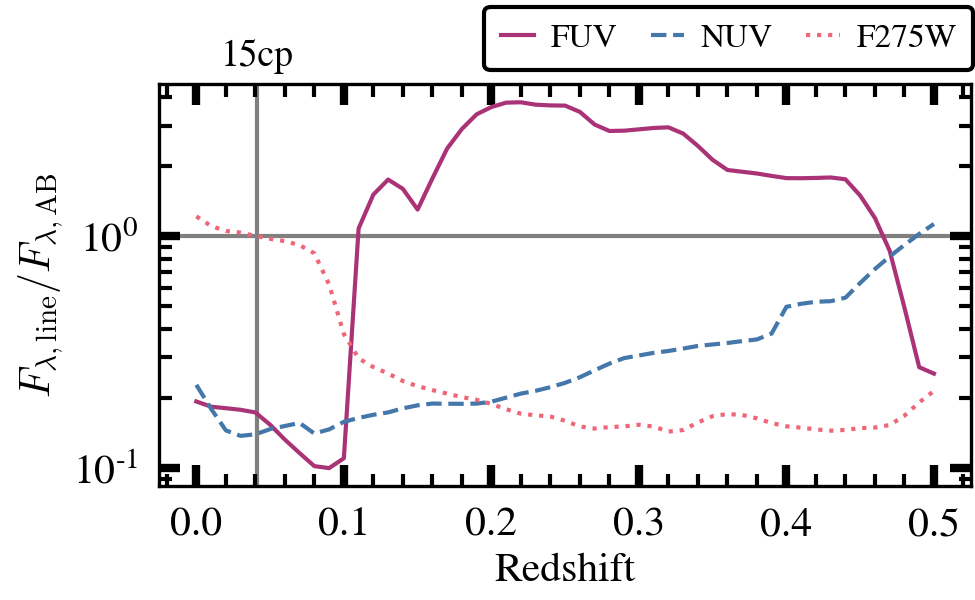
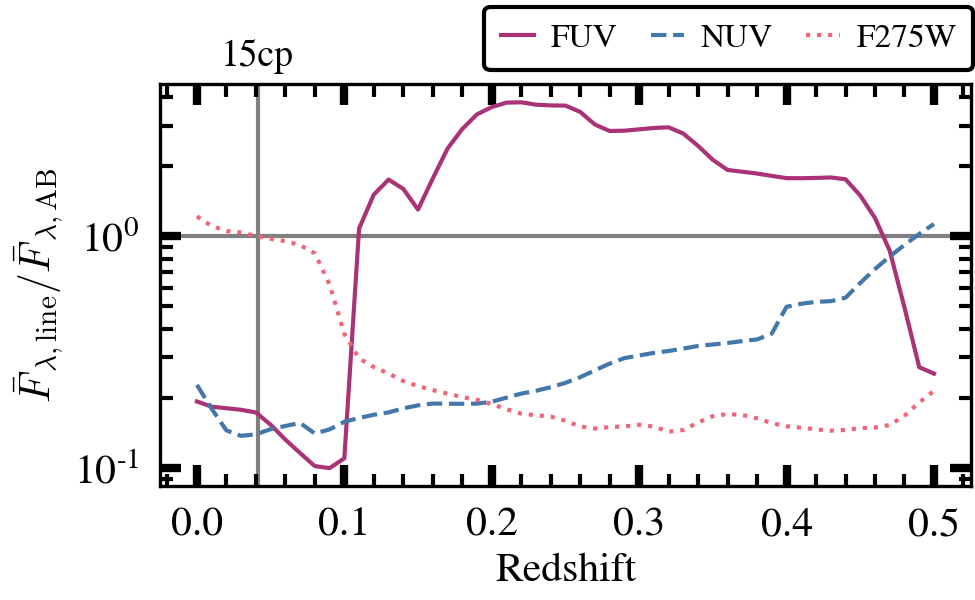
applied line sed calibration to injection-recovery

diff --git a/calibrate_sed.py b/calibrate_sed.py
@@ -45,8 +45,9 @@ zero_point_nu = 3.63e-20 * f_nu_units
 colors = {'FUV' : '#a37', 'NUV' : '#47a', 'F275W': '#e67'}
 styles = {'FUV': '-', 'NUV': '--', 'F275W': ':'}
 
-# initialize CSM line emisison model
+# initialize CSM emisison models
 line_model = CSMmodel(0, 250, 0.3, scale=1, model='Chev94')
+flat_model = CSMmodel(0, 250, 0.3, scale=1, model='flat')
 
 def main(dz=0.001, plot=True, plot_dz=0.01):
     """
@@ -98,6 +99,8 @@ def main(dz=0.001, plot=True, plot_dz=0.01):
         ax.axvline(SN2015cp['z'], 0, 1, c='gray', zorder=0, linewidth=1)
         ax.set_xticks(list(ax.get_xticks()[1:-1]) + [SN2015cp['z']])
         ax.set_xticklabels(list(np.round(ax.get_xticks()[:-1], 1)) + ['15cp'])
+        plt.tight_layout(pad=0.1)
+        plt.subplots_adjust(top=0.86)
         fig.legend(loc='upper center', ncol=3, bbox_to_anchor=(0.5, 1.))
         # Custom second legend
         solid_line = mlines.Line2D([], [], color='k', linestyle='-')
@@ -105,8 +108,10 @@ def main(dz=0.001, plot=True, plot_dz=0.01):
         fig.legend([solid_line, dashed_line], 
                    ['Line-emission model', 'Scaled AB zero point'],
                    loc='upper center', ncol=2, bbox_to_anchor=(0.5, 0.95),
-                   handlelength=1.)
+                   handletextpad=0.5, handlelength=1., borderpad=0.5, 
+                   fontsize=8, borderaxespad=0.05)
         plt.savefig(Path('out/sed_flux_comparison.png'), dpi=300)
+        plt.savefig(Path('out/sed_flux_comparison.pdf'), dpi=300)
         plt.show()
     
         # Plot calibration of each band
@@ -116,7 +121,7 @@ def main(dz=0.001, plot=True, plot_dz=0.01):
             ax.plot(zarr, gen_calibration(zarr, band), 
                     label=band, color=colors[band], linestyle=styles[band])
         ax.set_xlabel('Redshift')
-        ax.set_ylabel('$F_{\lambda,\\rm{line}}/F_{\lambda,\\rm{AB}}$')
+        ax.set_ylabel('$\\bar F_{\lambda,\\rm{line}}/\\bar F_{\lambda,\\rm{AB}}$')
         ax.set_yscale('log')
         # Add horizontal marker at unity
         ax.axhline(1, 0, 1, c='gray', zorder=0, linewidth=1)
@@ -126,8 +131,8 @@ def main(dz=0.001, plot=True, plot_dz=0.01):
         plt.tight_layout(pad=0.1)
         plt.subplots_adjust(top=0.86)
         fig.legend(loc='lower right', ncol=3, bbox_to_anchor=(1., 0.88),
-                   handletextpad=0.5, handlelength=1., borderpad=0.5, fontsize=8,
-                   borderaxespad=0.05)
+                   handletextpad=0.5, handlelength=1., borderpad=0.5, 
+                   fontsize=8, borderaxespad=0.05)
         plt.savefig(Path('out/sed_calibration.png'), dpi=300)
         plt.savefig(Path('out/sed_calibration.pdf'), dpi=300)
         plt.show()
@@ -151,6 +156,9 @@ def gen_calibration(z, band):
         Scaled flux ratio.
 
     """
+    # Convert HST luminosity of SN 2015cp to flux
+    SN2015cp['f_lambda'] = luminosity2flux(SN2015cp['L_lambda'], SN2015cp['z'], 
+                                           SN2015cp['dist'])
     # ratio of AB zero point mean flux density at z_15cp to flux of 15cp
     fratio_15cp = zero_point_mfd(SN2015cp['z'], 'F275W') / SN2015cp['f_lambda']
     calibration = line_emission_flux(z, dist=SN2015cp['dist'], band=band)

diff --git a/light_curve.py b/light_curve.py
@@ -12,6 +12,7 @@ from astropy.constants import c
 
 from supernova import Supernova
 from utils import *
+from calibrate_sed import gen_calibration
 
 # Default file and directory paths
 DATA_DIR = Path('/mnt/d/GALEXdata_v10')     # Path to data directory
@@ -179,8 +180,14 @@ def plot(sn, tmax=4000, pad=0, swift=False, cfa=False, legend_col=3, show=True,
 
 
 class LightCurve:
-    def __init__(self, sn, band, data_dir=LC_DIR, **kwargs):
-        """Import light curve data and calculate background & luminosity."""
+    def __init__(self, sn, band, data_dir=LC_DIR, sed='ab', **kwargs):
+        """Import light curve data and calculate background & luminosity.
+        Inputs:
+            sed: assumed underlying spectral energy density. 'ab' assumes
+                standard flux of AB zero point (flat in f_nu), 'Chev94' assumes
+                Chev94 line-emission model for CSM, and 'flat' assumes flat 
+                in f_lambda) model for CSM.
+        """
 
         self.sn_name = sn.name
         self.band = band
@@ -206,6 +213,13 @@ class LightCurve:
         data['flux_hostsub'] = data['flux_bgsub'] - self.bg
         data['flux_hostsub_err'] = np.sqrt(data['flux_bgsub_err_total']**2 +
                 self.bg_err**2)
+        
+        # Correct for SED assumption
+        if sed == 'Chev94':
+            data['flux_hostsub'] *= gen_calibration(sn.z, band)
+        if sed == 'flat':
+            # TODO
+            pass
 
         # Calculate luminosity
         data = add_luminosity(data, sn, band)

diff --git a/injection_recovery.py b/injection_recovery.py
@@ -6,7 +6,7 @@ import numpy as np
 from pathlib import Path
 from pathos.multiprocessing import ProcessingPool as Pool
 import dill
-import json
+# import json
 
 from utils import *
 from CSMmodel import CSMmodel
@@ -61,7 +61,7 @@ def run_all(supernovae, iterations, tstart_lims, scale_lims, sn_info=[],
         lcs = []
         for band in ['FUV', 'NUV']:
             try:
-                lc = LightCurve(sn, band, data_dir=DATA_DIR)
+                lc = LightCurve(sn, band, data_dir=DATA_DIR, sed=model)
             except:
                 # No data for this channel
                 continue
@@ -180,12 +180,13 @@ class Injection:
 
 
     @classmethod
-    def from_name(self, sn_name, band, tstart, scale, sn_info=[], **kwargs):
+    def from_name(self, sn_name, band, tstart, scale, sn_info=[], 
+                  model='Chev94', **kwargs):
         """Generate Injection instance from a supernova name and GALEX band,
         also creating a Supernova and LightCurve object in the process."""
 
         sn = Supernova(sn_name, sn_info=sn_info)
-        lc = LightCurve(sn, band)
+        lc = LightCurve(sn, band, sed=model)
         return Injection(sn, lc, tstart, scale, **kwargs)
 
 

diff --git a/utils.py b/utils.py
@@ -15,7 +15,8 @@ ITERATIONS = 10000 # injection-recovery iterations per SN
 TSTART_BIN_WIDTH = 100 # horizontal bin width for recovery plot
 
 # Default directories
-SAVE_DIR = Path('/mnt/d/injection_recovery_runs')
+# SAVE_DIR = Path('/mnt/d/injection_recovery_runs')
+SAVE_DIR = Path('C:\\Users\\dubay.11\\Documents\\GALEXdata_v10\\inj_rec')
 # SAVE_DIR = Path('save')
 DATA_DIR = Path('data')
 OUTPUT_DIR = Path('out')
